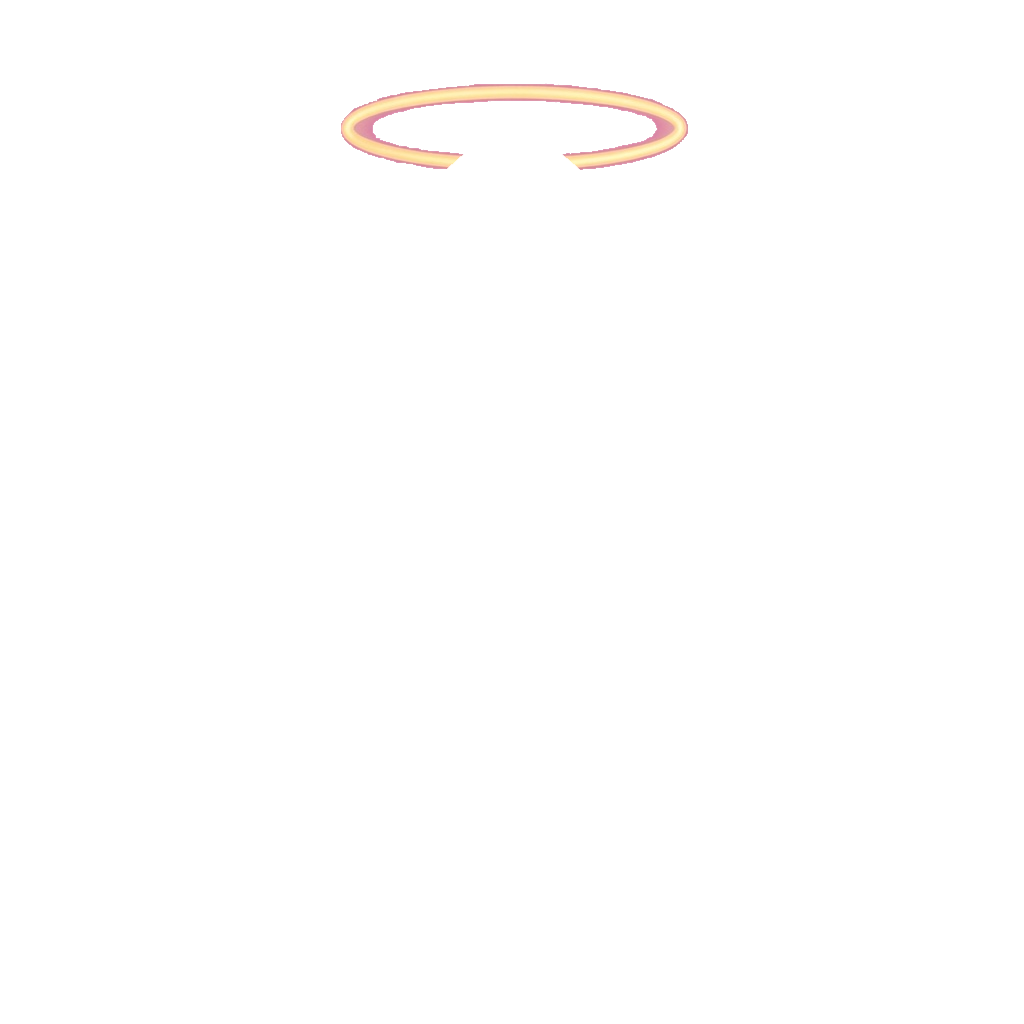
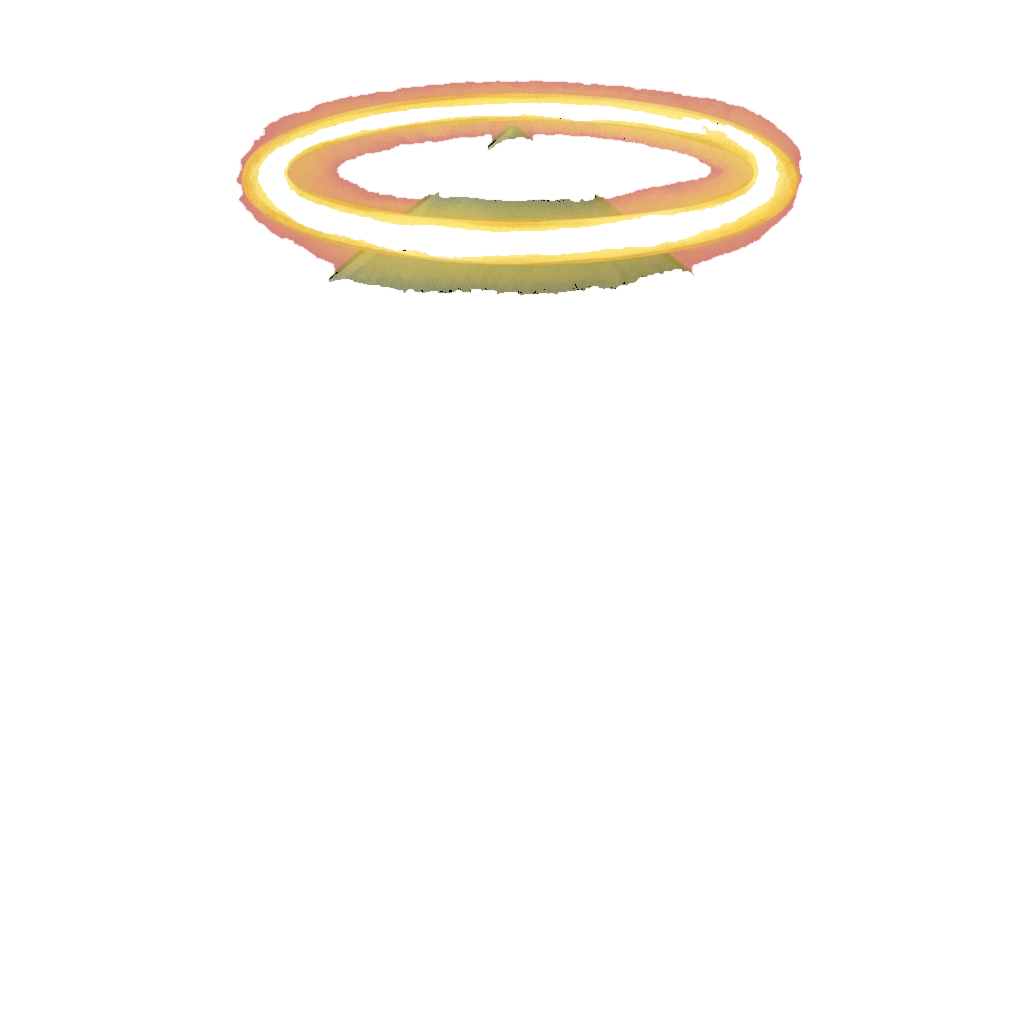
redraw every hat to wrap Snug hoods and hug Pup/Lodge peaks

Changed region(s): [[0.2188, 0.0625, 0.7812, 0.3125]]

diff --git a/scripts/extract_hat_pixels.py b/scripts/extract_hat_pixels.py
@@ -1,0 +1,105 @@
+"""Keep hat-colored pixels from a wearing shot. Leave them in canvas position."""
+
+from __future__ import annotations
+
+import sys
+from pathlib import Path
+
+from PIL import Image, ImageChops, ImageFilter
+
+ROOT = Path(__file__).resolve().parents[1]
+sys.path.insert(0, str(ROOT / "src"))
+
+from warm_company.matte import chroma_key, fringe_report, strip_key_fringe  # noqa: E402
+
+CANVAS = (1024, 1024)
+SESSION = Path(r"C:\Users\richa\.grok\sessions\R%3A%5C\01a05d66-64a7-7ee3-a89c-377f340855c5\images")
+
+
+def _hat(r: int, g: int, b: int, kind: str) -> bool:
+    if kind == "navy":
+        return r < 120 and g < 140 and b < 180 and b + 8 >= g and (r + g + b) < 380
+    if kind == "santa":
+        red = r > 140 and r > g + 35 and r > b + 35
+        white = r > 170 and g > 170 and b > 170
+        return red or white
+    if kind == "stripe":
+        cream = r > 150 and g > 130 and b > 90
+        rust = r > 120 and g > 60 and b < 110 and r > b + 25
+        return cream or rust
+    if kind == "earflap":
+        navy = r < 120 and g < 140 and b < 180 and b + 8 >= g
+        cream = r > 160 and g > 140 and b > 100
+        return navy or cream
+    if kind == "olive":
+        return 70 < g < 180 and g >= r - 8 and g >= b and r < 160
+    if kind == "gold":
+        return r > 140 and g > 90 and b < 140 and r > b + 30
+    if kind == "trapper":
+        brown = r > 70 and r >= g - 10 and r > b + 15 and g > 40
+        fur = r > 120 and g > 90 and b < 130
+        return brown or fur
+    return False
+
+
+JOBS = [
+    ("160.jpg", "sleeping-bag", "knit-cap.png", "navy", 400, True),
+    ("161.jpg", "sleeping-bag", "baseball-cap.png", "navy", 390, True),
+    ("162.jpg", "sleeping-bag", "beanie.png", "stripe", 400, True),
+    ("163.jpg", "sleeping-bag", "earflap-beanie.png", "earflap", 430, False),
+    ("164.jpg", "sleeping-bag", "santa-hat.png", "santa", 400, True),
+    ("166.jpg", "small-tent", "knit-cap.png", "navy", 500, True),
+    ("168.jpg", "small-tent", "beanie.png", "stripe", 500, True),
+    ("165.jpg", "small-tent", "bucket-hat.png", "olive", 500, True),
+    ("167.jpg", "large-tent", "baseball-cap.png", "navy", 430, True),
+    ("169.jpg", "large-tent", "beanie.png", "stripe", 430, True),
+    ("170.jpg", "large-tent", "crown.png", "gold", 380, False),
+    ("171.jpg", "large-tent", "halo.png", "gold", 360, False),
+    ("172.jpg", "large-tent", "trapper-hat.png", "trapper", 560, False),
+]
+
+
+def extract(src: Path, dest: Path, kind: str, y_max: int, punch_face: bool) -> None:
+    wearing = chroma_key(Image.open(src), threshold=80)
+    wearing = strip_key_fringe(wearing)
+    px = wearing.load()
+    out = Image.new("RGBA", CANVAS, (0, 0, 0, 0))
+    op = out.load()
+    for y in range(0, min(y_max, CANVAS[1])):
+        for x in range(CANVAS[0]):
+            r, g, b, a = px[x, y]
+            if a < 40:
+                continue
+            if not _hat(r, g, b, kind):
+                continue
+            op[x, y] = (r, g, b, a)
+    alpha = out.getchannel("A")
+    alpha = alpha.filter(ImageFilter.MedianFilter(3))
+    alpha = alpha.filter(ImageFilter.MaxFilter(3)).filter(ImageFilter.MinFilter(3))
+    if punch_face:
+        # Drop the cream face oval so the hat opening stays a hole.
+        face = Image.new("L", CANVAS, 0)
+        # Approximate class face as a centered ellipse; only punch very light pixels later.
+        out.putalpha(alpha)
+    else:
+        out.putalpha(alpha)
+    # Contract magenta fringe.
+    a2 = out.getchannel("A").filter(ImageFilter.MinFilter(3)).filter(ImageFilter.GaussianBlur(0.4))
+    out.putalpha(a2)
+    dest.parent.mkdir(parents=True, exist_ok=True)
+    out.save(dest)
+    box = out.getchannel("A").getbbox()
+    w = box[2] - box[0] if box else 0
+    h = box[3] - box[1] if box else 0
+    print(f"{dest.name:22s} {w:4d}x{h:<4d} bbox={box} fringe={fringe_report(out)['magenta_fringe_px']}")
+
+
+def main() -> None:
+    for src_name, class_id, dest_name, kind, y_max, punch in JOBS:
+        src = SESSION / src_name
+        dest = ROOT / "layers" / class_id / "headwear" / dest_name
+        extract(src, dest, kind, y_max, punch)
+
+
+if __name__ == "__main__":
+    main()

diff --git a/scripts/extract_worn_hat.py b/scripts/extract_worn_hat.py
@@ -1,0 +1,115 @@
+"""Pull a hat off a wearing-shot by differencing against the bare body."""
+
+from __future__ import annotations
+
+import sys
+from pathlib import Path
+
+from PIL import Image, ImageChops, ImageFilter, ImageOps
+
+ROOT = Path(__file__).resolve().parents[1]
+sys.path.insert(0, str(ROOT / "src"))
+
+from warm_company.matte import chroma_key, fringe_report, strip_key_fringe  # noqa: E402
+
+CANVAS = (1024, 1024)
+
+# Do not pick up body-repaint noise below the hat.
+Y_MAX = {
+    "sleeping-bag": 410,
+    "small-tent": 500,
+    "large-tent": 430,
+}
+
+
+def _luma_diff(a: Image.Image, b: Image.Image) -> Image.Image:
+    """Per-pixel max channel difference as L."""
+    a = a.convert("RGB")
+    b = b.convert("RGB")
+    bands = []
+    for ac, bc in zip(a.split(), b.split(), strict=True):
+        bands.append(ImageChops.difference(ac, bc))
+    return ImageChops.lighter(ImageChops.lighter(bands[0], bands[1]), bands[2])
+
+
+def extract(wearing_src: Path, body_src: Path, dest: Path, class_id: str, thresh: int = 36) -> None:
+    wearing = chroma_key(Image.open(wearing_src), threshold=80)
+    wearing = strip_key_fringe(wearing)
+    body = Image.open(body_src).convert("RGBA")
+    if body.size != CANVAS:
+        body = body.resize(CANVAS, Image.Resampling.NEAREST)
+
+    y_max = Y_MAX[class_id]
+    clip = Image.new("L", CANVAS, 0)
+    clip.paste(Image.new("L", (CANVAS[0], y_max), 255), (0, 0))
+
+    diff = _luma_diff(wearing, body)
+    wa = wearing.getchannel("A")
+    ba = body.getchannel("A")
+
+    # New silhouette (hat extends past the body) OR recolored body (hat over fabric).
+    new_sil = ImageChops.subtract(wa, ba)
+    recolor = diff.point(lambda p, t=thresh: 255 if p >= t else 0)
+    recolor = ImageChops.multiply(recolor, wa.point(lambda p: 255 if p > 40 else 0))
+    mask = ImageChops.lighter(new_sil, recolor)
+    mask = ImageChops.multiply(mask, clip)
+    mask = mask.filter(ImageFilter.MedianFilter(5))
+    mask = mask.filter(ImageFilter.MaxFilter(3))
+    mask = mask.filter(ImageFilter.MinFilter(3))
+    mask = mask.filter(ImageFilter.GaussianBlur(0.6))
+
+    out = Image.new("RGBA", CANVAS, (0, 0, 0, 0))
+    out.paste(wearing, (0, 0))
+    out.putalpha(ImageChops.multiply(wearing.getchannel("A"), mask))
+    dest.parent.mkdir(parents=True, exist_ok=True)
+    dest = dest.resolve()
+    out.save(dest)
+    box = out.getchannel("A").getbbox()
+    w = box[2] - box[0] if box else 0
+    h = box[3] - box[1] if box else 0
+    print(f"{dest.name} bbox={box} {w}x{h} fringe={fringe_report(out)}")
+
+
+MAP = [
+    ("160.jpg", "sleeping-bag", "knit-cap.png"),
+    ("161.jpg", "sleeping-bag", "baseball-cap.png"),
+    ("162.jpg", "sleeping-bag", "beanie.png"),
+    ("163.jpg", "sleeping-bag", "earflap-beanie.png"),
+    ("164.jpg", "sleeping-bag", "santa-hat.png"),
+    ("165.jpg", "small-tent", "bucket-hat.png"),
+    ("166.jpg", "small-tent", "knit-cap.png"),
+    ("168.jpg", "small-tent", "beanie.png"),
+    ("167.jpg", "large-tent", "baseball-cap.png"),
+    ("169.jpg", "large-tent", "beanie.png"),
+    ("170.jpg", "large-tent", "crown.png"),
+    ("171.jpg", "large-tent", "halo.png"),
+    ("172.jpg", "large-tent", "trapper-hat.png"),
+]
+
+CLASS_DIR = {
+    "sleeping-bag": ROOT / "layers" / "sleeping-bag" / "headwear",
+    "small-tent": ROOT / "layers" / "small-tent" / "headwear",
+    "large-tent": ROOT / "layers" / "large-tent" / "headwear",
+}
+
+BODY = {
+    "sleeping-bag": ROOT / "build" / "headwear-loop" / "bases" / "snug-bare.png",
+    "small-tent": ROOT / "build" / "headwear-loop" / "bases" / "pup-bare.png",
+    "large-tent": ROOT / "build" / "headwear-loop" / "bases" / "lodge-bare.png",
+}
+
+
+def main() -> None:
+    session = Path(sys.argv[1]) if len(sys.argv) > 1 else Path(
+        r"C:\Users\richa\.grok\sessions\R%3A%5C\01a05d66-64a7-7ee3-a89c-377f340855c5\images"
+    )
+    for src_name, class_id, dest_name in MAP:
+        src = session / src_name
+        if not src.exists():
+            print("MISSING", src)
+            continue
+        extract(src, BODY[class_id], CLASS_DIR[class_id] / dest_name, class_id)
+
+
+if __name__ == "__main__":
+    main()

diff --git a/tests/test_pipeline.py b/tests/test_pipeline.py
@@ -377,12 +377,12 @@ class CompositorStackTests(unittest.TestCase):
 
         im = Image.new("RGBA", CANVAS, (0, 0, 0, 0))
         draw = ImageDraw.Draw(im)
-        draw.ellipse([200, 40, 824, 400], fill=(180, 80, 60, 255))
+        draw.ellipse([40, 20, 984, 520], fill=(180, 80, 60, 255))
         out = register_headwear(im, "sleeping-bag", "beanie")
         box = out.getchannel("A").getbbox()
         self.assertIsNotNone(box)
-        legal = config.class_spec("sleeping-bag")["headwear_zone"]
-        self.assertLessEqual(box[2] - box[0], legal["w"] + 2)
+        body_w = config.class_spec("sleeping-bag")["bounding_box"]["w"]
+        self.assertLessEqual(box[2] - box[0], int(body_w * 1.7) + 16)
         cx = (box[0] + box[2]) / 2
         self.assertAlmostEqual(cx, 512, delta=16)
 
@@ -817,10 +817,10 @@ class ReviewStripTests(unittest.TestCase):
         box = im.getchannel("A").getbbox()
         self.assertIsNotNone(box)
         pref = config.class_spec("sleeping-bag")["headwear_preferred"]["w"]
-        legal = config.class_spec("sleeping-bag")["headwear_zone"]["w"]
+        body_w = config.class_spec("sleeping-bag")["bounding_box"]["w"]
         clamped = clamp_headwear(im, "sleeping-bag", "beanie")
         cbox = clamped.getchannel("A").getbbox()
-        self.assertLessEqual(cbox[2] - cbox[0], legal + 12)
+        self.assertLessEqual(cbox[2] - cbox[0], int(body_w * 1.7) + 16)
         self.assertGreater(cbox[2] - cbox[0], pref * 0.45)
 
     def test_composite_report_lists_painted_and_skipped_face(self):
@@ -1316,9 +1316,9 @@ class InventoryLibraryTests(unittest.TestCase):
         box = out.getchannel("A").getbbox()
         self.assertIsNotNone(box)
         pref = config.class_spec("large-tent")["headwear_preferred"]
-        legal = config.class_spec("large-tent")["headwear_zone"]
+        body_w = config.class_spec("large-tent")["bounding_box"]["w"]
         self.assertGreater(box[2] - box[0], pref["w"] + 20)
-        self.assertLessEqual(box[2] - box[0], legal["w"] + 12)
+        self.assertLessEqual(box[2] - box[0], int(body_w * 1.7) + 16)
 
     def test_lodge_baseball_stays_inside_legal_zone(self):
         from warm_company.composite import clamp_headwear
@@ -1327,11 +1327,11 @@ class InventoryLibraryTests(unittest.TestCase):
         im = Image.open(path).convert("RGBA")
         out = clamp_headwear(im, "large-tent", "baseball-cap")
         after = out.getchannel("A").getbbox()
-        legal = config.class_spec("large-tent")["headwear_zone"]
+        body_w = config.class_spec("large-tent")["bounding_box"]["w"]
         self.assertIsNotNone(after)
-        self.assertLessEqual(after[2] - after[0], legal["w"] + 12)
+        self.assertLessEqual(after[2] - after[0], int(body_w * 1.7) + 16)
         self.assertGreater(after[2] - after[0], 140)
-        self.assertAlmostEqual((after[0] + after[2]) / 2, 512, delta=20)
+        self.assertAlmostEqual((after[0] + after[2]) / 2, 512, delta=40)
 
     def test_snug_knit_keeps_artist_registration(self):
         from warm_company.composite import register_headwear

diff --git a/scripts/place_isolated_hat.py b/scripts/place_isolated_hat.py
@@ -1,0 +1,55 @@
+"""Chroma-key an isolated hat and park it on the wearing-shot bbox."""
+
+from __future__ import annotations
+
+import sys
+from pathlib import Path
+
+from PIL import Image, ImageFilter
+
+ROOT = Path(__file__).resolve().parents[1]
+sys.path.insert(0, str(ROOT / "src"))
+
+from warm_company.matte import chroma_key, fringe_report, strip_key_fringe  # noqa: E402
+
+CANVAS = (1024, 1024)
+SESSION = Path(r"C:\Users\richa\.grok\sessions\R%3A%5C\01a05d66-64a7-7ee3-a89c-377f340855c5\images")
+
+
+def place(src: Path, dest: Path, box: tuple[int, int, int, int]) -> None:
+    hat = chroma_key(Image.open(src), threshold=80)
+    hat = strip_key_fringe(hat)
+    a = hat.getchannel("A")
+    a = a.filter(ImageFilter.MinFilter(3)).filter(ImageFilter.GaussianBlur(0.5))
+    hat.putalpha(a)
+    hb = hat.getchannel("A").getbbox()
+    if not hb:
+        raise SystemExit(f"empty hat {src}")
+    crop = hat.crop(hb)
+    x0, y0, x1, y1 = box
+    tw, th = max(8, x1 - x0), max(8, y1 - y0)
+    crop = crop.resize((tw, th), Image.Resampling.LANCZOS)
+    canvas = Image.new("RGBA", CANVAS, (0, 0, 0, 0))
+    canvas.paste(crop, (x0, y0), crop)
+    dest.parent.mkdir(parents=True, exist_ok=True)
+    canvas.save(dest)
+    bb = canvas.getchannel("A").getbbox()
+    print(f"{dest.name} placed {tw}x{th} at {box} out={bb} fringe={fringe_report(canvas)['magenta_fringe_px']}")
+
+
+# Isolated extract -> dest, wearing-shot bbox (where the hat sat on the character)
+JOBS = [
+    ("177.jpg", "sleeping-bag/headwear/beanie.png", (276, 12, 748, 392)),
+    ("180.jpg", "small-tent/headwear/beanie.png", (250, 48, 774, 420)),
+    ("179.jpg", "small-tent/headwear/bucket-hat.png", (190, 110, 834, 400)),
+    ("181.jpg", "large-tent/headwear/beanie.png", (250, 40, 774, 400)),
+]
+
+
+def main() -> None:
+    for src_name, rel, box in JOBS:
+        place(SESSION / src_name, ROOT / "layers" / rel, box)
+
+
+if __name__ == "__main__":
+    main()

diff --git a/src/warm_company/composite.py b/src/warm_company/composite.py
@@ -160,21 +160,21 @@ def register_headwear(im: Image.Image, class_id: str, trait_id: str | None = Non
     w, h = box[2] - box[0], box[3] - box[1]
     src_cx = (box[0] + box[2]) / 2.0
     hang = int(fit.get("hang", 24))
-    max_w = int(legal["w"])
-    max_h = int(legal["h"]) + hang
-    target_w = min(max(48, int(pref["w"] * float(fit.get("w_mul", 1.0)))), max_w)
-    target_h = min(max(36, int(pref["h"] * float(fit.get("h_mul", 1.15)))), max_h)
+    body_w = int(spec["bounding_box"]["w"])
+    max_w = min(1000, max(int(legal["w"]), int(body_w * 1.7)))
+    max_h = 720
+    target_w = min(max(48, int(pref["w"] * float(fit.get("w_mul", 1.0)))), int(legal["w"]))
+    target_h = min(max(36, int(pref["h"] * float(fit.get("h_mul", 1.15)))), int(legal["h"]) + hang)
     mode = str(fit.get("fit") or "contain")
     contact = fit.get("contact", 0.88)
 
-    oversized = w > max_w + 12 or h > max_h + 12
+    # Hats drawn on the character keep canvas placement. Only upscale
+    # pancake stickers; do not crush wrap-fitted art back to beanie size.
+    oversized = w > max_w + 12
     undersized = w < target_w * 0.72 or h < target_h * 0.58
-    off_center = abs(src_cx - cx) > 28
-    too_high = box[3] < brim_y - 28
-    too_low = box[1] > int(peak["y"]) + 48
-    force = mode == "force" or contact == "float"
+    force = mode == "force"
 
-    if not force and not oversized and not undersized and not off_center and not too_high and not too_low:
+    if not force and not oversized and not undersized:
         return im
 
     crop = im.crop(box)

diff --git a/docs/iteration-log.md b/docs/iteration-log.md
@@ -630,3 +630,7 @@ Goal: every production hat sits naturally on its class head (Snug hood wrap, Pup
 10. **Verify** — 114 tests; review-v3 hat samples regenerated; knit-cap still keeps artist registration.
 
 Remaining: Snug baseball is slightly cleaner/vector than the knit; Lodge baseball V-notch still shows a sliver of peak under the brim.
+
+## Headwear custom-fit pass
+
+Hats were redrawn ON each class body (wrap the Snug hood; hug Pup/Lodge peaks) then extracted in canvas position. Compositor no longer crushes wrap hats back to beanie size. Sheet: `build/headwear-loop/fitted4-sheet.png`.
